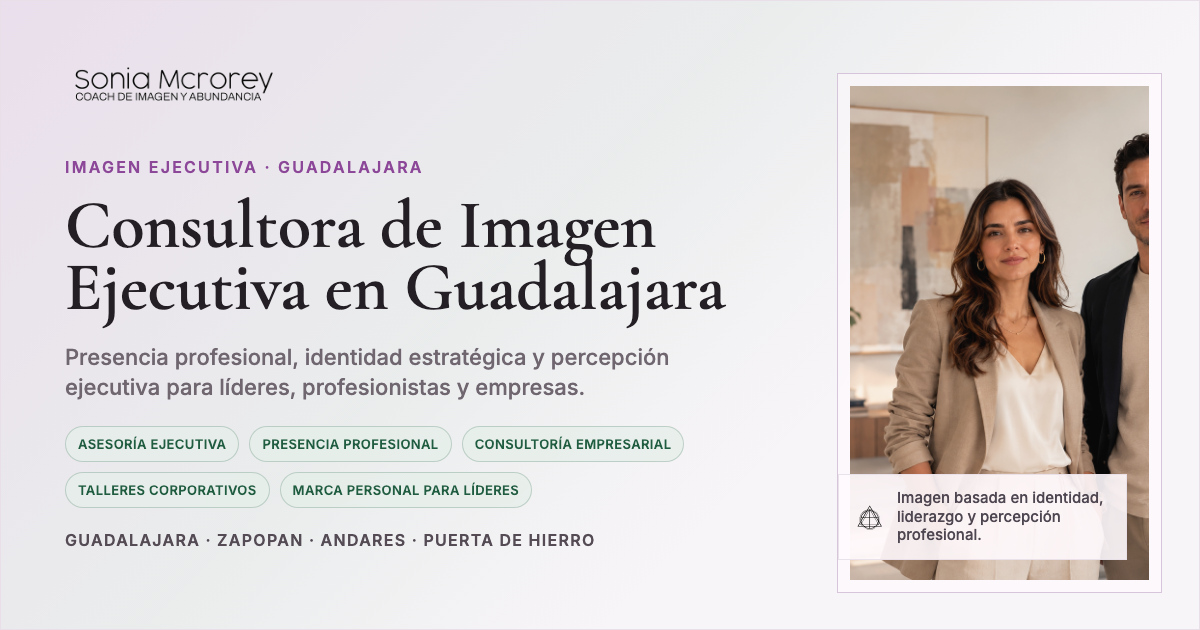
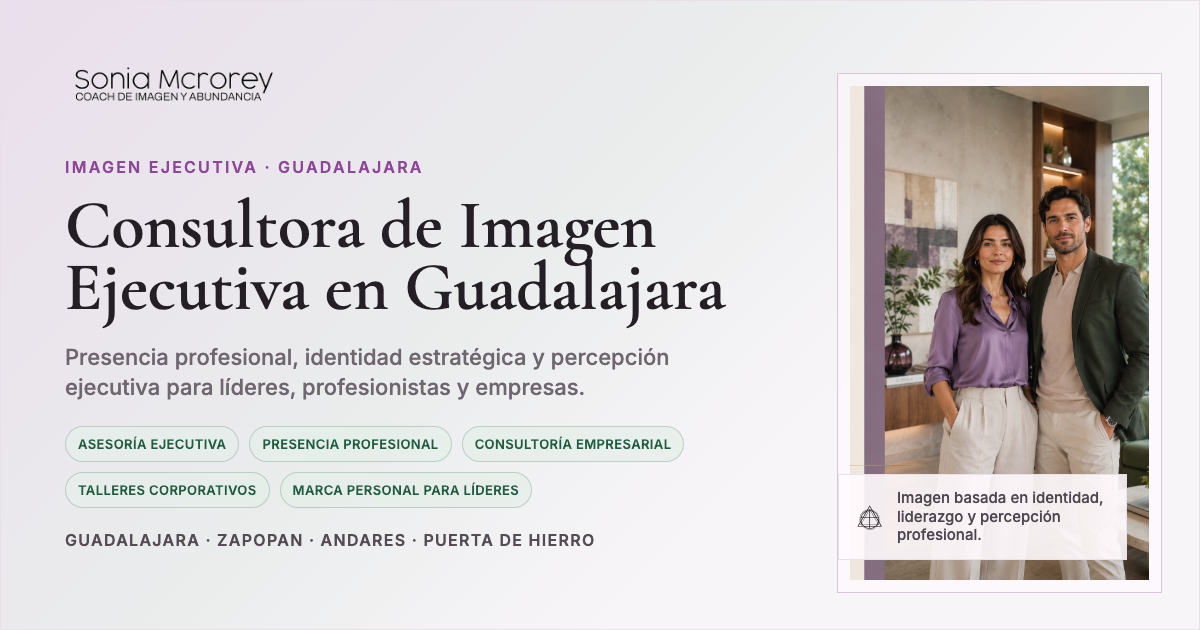
Use updated Sonia consultant hero image

Changed region(s): [[0.7092, 0.1206, 0.9558, 0.9349]]

diff --git a/styles.css b/styles.css
@@ -225,7 +225,7 @@ textarea {
 
 .hero {
   display: grid;
-  grid-template-columns: minmax(0, 0.82fr) minmax(520px, 1fr);
+  grid-template-columns: minmax(0, 0.9fr) minmax(420px, 0.74fr);
   gap: clamp(34px, 4vw, 58px);
   align-items: start;
   min-height: auto;
@@ -307,7 +307,7 @@ h2 em {
   position: relative;
   margin: 0;
   align-self: start;
-  aspect-ratio: 4 / 3;
+  aspect-ratio: 2 / 3;
   min-height: auto;
   padding: 12px;
   background: linear-gradient(135deg, rgba(140, 71, 153, 0.18), rgba(32, 92, 64, 0.12));
